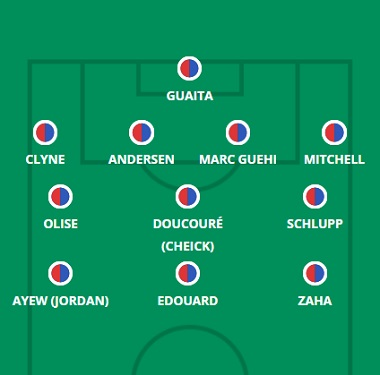
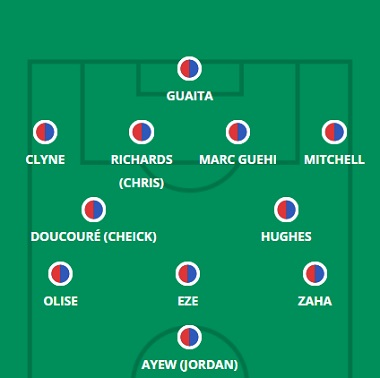
9-20

diff --git a/nforest.html b/nforest.html
@@ -63,15 +63,15 @@
     <hgroup>
         <h1> Provável Escalação</h1>
         <h2 class="direita"> por FabioVascão </h2>
-        <h3 class="direita"> Atualizado em 13/Janeiro/2023 </h3>
+        <h3 class="direita"> Atualizado em 20/Janeiro/2023 </h3>
     </hgroup>
 
     <div class="selecao"><p><b><img src="images/logos/nforest.png" width="100rem" height="100rem"/> N. Forest</b></p></div>
        
     <div class="escalacao">
         <div class="topo">
-            <h2 class="titulo">Ultimas Notícias</h2> <h4><p> Omar Richards (perna), Giulian Biancone (ACL), Moussa Niakhate (coxa), Cheikhou Kouyate (coxa) e Jesse Lingard (coxa) definitivamente permanecem de fora, mas o Nottingham Forest estava em ação na copa apenas 12 horas antes de Steve Cooper entregar seu pré- Conferência de imprensa da Gameweek 20, então as atualizações sobre os outros jogadores sinalizados foram bastante vagas, pois a avaliação adequada não ocorreu. Willy Boly (tornozelo) saiu mancando da vitória da copa sobre o Wolverhampton Wanderers depois de inicialmente pular de uma maca para voltar à ação, enquanto Taiwo Awoniyi (fadiga muscular) e Neco Williams (lesão facial) perderam o jogo completamente. Cooper havia dito anteriormente que esperava ter Awoniyi de volta para este jogo, mas há mais preocupação com Boly, que havia se estabelecido entre os quatro defensores antes de sua lesão no meio da semana. Scott McKenna estará de prontidão para substituir o ex-jogador do Wolves, enquanto os três atacantes de quarta-feira de Brennan Johnson, Morgan Gibbs-White e Gustavo Scarpa podem continuar de qualquer maneira, mesmo que Awoniyi se recupere. Os quatro zagueiros e o meio-campo três permaneceram inalterados na liga desde o reinício de dezembro, à medida que a forma de Forest ganha força, então jogadores como Harry Toffolo, Lewis O'Brien, Sam Surridge, Emmanuel Dennis e Jack Colback devem estar aquecendo o banco uma vez novamente.</p></h4><br>
-            <h4><strong>Dúvidas:</strong> Biancone, Kouyaté, Niakhaté, Awoniyi, Boly, Neco Willians, Lingard e Richards (Omar).</h4>
+            <h2 class="titulo">Ultimas Notícias</h2> <h4><p> Dean Henderson (coxa) ficará de fora no próximo mês depois de sofrer uma lesão nos estágios finais da vitória sobre o Leicester City no fim de semana passado, com Wayne Hennessey definido para substituir neste sábado. Willy Boly (tornozelo), Omar Richards (perna), Giulian Biancone (ACL), Moussa Niakhate (coxa), Cheikhou Kouyate (coxa), Jesse Lingard (coxa) e Taiwo Awoniyi (virilha) também devem ficar de fora, com Steve Cooper disse que Forest estava "como estávamos" em termos de notícias da equipe, mas Ryan Yates se recuperou rapidamente de uma lesão facial que contraiu no fim de semana passado. Chegada iminente Chris Wood provavelmente fornecerá o apoio inicial para os três primeiros de Brennan Johnson, Morgan Gibbs-White e Gustavo Scarpa, devido à falta de tempo de treinamento com seus novos companheiros de equipe, enquanto as únicas mudanças na forma defesa e meio-campo desde o reinício pós-Copa do Mundo foram aplicados devido a lesão. Jogadores como Harry Toffolo, Lewis O'Brien, Sam Surridge, Emmanuel Dennis e Jack Colback parecem prestes a aquecer o banco mais uma vez, então, com esse contingente potencialmente acompanhado pelo recém-chegado Danilo Pereira; Cooper disse que o brasileiro enfrentou um "período de adaptação" após sua mudança em janeiro.</p></h4><br>
+            <h4><strong>Dúvidas:</strong> Biancone, Kouyaté, Henderson, Niakhaté, Awoniyi, Boly, Lingard e Richards (Omar).</h4>
         </div>
         <aside>
             <figure>

diff --git a/palace.html b/palace.html
@@ -63,15 +63,15 @@
     <hgroup>
         <h1> Provável Escalação</h1>
         <h2 class="direita"> por FabioVascão </h2>
-        <h3 class="direita"> Atualizado em 13/Janeiro/2023 </h3>
+        <h3 class="direita"> Atualizado em 20/Janeiro/2023 </h3>
     </hgroup>
 
     <div class="selecao"><p><b><img src="images/logos/crystal-palace.png" width="100rem" height="100rem"/> Crystal Palace</b></p></div>
        
     <div class="escalacao">
         <div class="topo">
-            <h2 class="titulo">Ultimas Notícias</h2> <h4><p> Não parece haver novas preocupações com lesões para o Crystal Palace, com Patrick Vieira dizendo que “todo mundo do último jogo treinou a semana toda”. Os Eagles sentirão novamente a falta de James McArthur (virilha) e Nathan Ferguson (condição física), ambos ausentes há muito tempo, mas Tyrick Mitchell está de volta após uma suspensão de três jogos após sua expulsão no Boxing Day e deve retornar ao time titular. XI, potencialmente substituindo Joel Ward na lateral-esquerda. Mais à frente, há muito mais debate a ser feito com Cheick Doucoure frequentemente exposto na sala de máquinas e a queda de forma de Eberechi Eze. Vieira ficou sem Odsonne Edouard ou Jean-Philippe Mateta em suas três primeiras escalações na Premier League desde o reinício, explicando mais tarde que a dupla não estava totalmente apta, mas Edouard voltou ao topo na FA Cup no fim de semana passado e marcou devidamente, para potencialmente aumentar suas chances de começar em Stamford Bridge. O enxerto de Jordan Ayew é normalmente chamado em jogos difíceis fora de casa (é uma viagem para o Chelsea?) E Wilfried Zaha geralmente é o mais acertado, enquanto Michael Olise parecia afiado em um papel de meio-campo de ataque central contra o Southampton na copa. Jefrrey Schlupp, Will Hughes, Eze e Edouard podem estar competindo por duas vagas, então, enquanto Vieira tenta impedir uma sequência de três derrotas em quatro jogos.</p></h4><br>
-            <h4><strong>Dúvidas:</strong> Ferguson (Nathan) e McArthur.</h4>
+            <h2 class="titulo">Ultimas Notícias</h2> <h4><p> Joachim Andersen (panturrilha) está a algumas semanas de um retorno, enquanto James McArthur (virilha) vai intensificar sua reabilitação após o jogo 21. Nathan Ferguson (condicionamento físico) começou a treinar com a equipe, entretanto, embora não tenha t chutou uma bola competitivamente em um ano. O Palace ganhou um ponto digno de crédito em um confronto no meio da semana com o Manchester United, mas apesar do resultado positivo, Vieira disse que haveria outras "algumas mudanças" com a reviravolta domingo-quarta-sábado em mente. Eberechi Eze e Jordan Ayew são candidatos óbvios para um recall, com Jean-Philippe Mateta e Odsonne Edouard potencialmente desistindo - embora Edouard tenha feito um de seus melhores jogos jogando apenas como atacante central, em vez de liderar a linha. Jeffrey Schlupp para Will Hughes e Joel Ward para Nathaniel Clyne são outras mudanças possíveis, enquanto James Tomkins é uma opção no meio-campo se o impressionante Chris Richards não fizer duas partidas em menos de 72 horas.</p></h4><br>
+            <h4><strong>Dúvidas:</strong> Ferguson (Nathan), Andersen e McArthur.</h4>
         </div>
         <aside>
             <figure>

diff --git a/spurs.html b/spurs.html
@@ -63,15 +63,15 @@
     <hgroup>
         <h1> Provável Escalação</h1>
         <h2 class="direita"> por FabioVascão </h2>
-        <h3 class="direita"> Atualizado em 13/Janeiro/2023 </h3>
+        <h3 class="direita"> Atualizado em 20/Janeiro/2023 </h3>
     </hgroup>
 
     <div class="selecao"><p><b><img src="images/logos/tottenham.png" width="100rem" height="100rem"/> Tottenham</b></p></div>
        
     <div class="escalacao">
         <div class="topo">
-            <h2 class="titulo">Ultimas Notícias</h2> <h4><p> Antonio Conte disse na sexta-feira que “acha” que Dejan Kulusevski (músculo) estará “pronto para jogar”, mas acrescentou que o clube não “correrá riscos” com Rodrigo Bentancur (virilha) e Richarlison (coxa), que, no entanto, estão se aproximando um retorno e será avaliado em treinamento. Lucas Moura (tendão) também segue de fora. Por melhor que Bryan Gil tenha sido ultimamente, não seria uma surpresa ver Kulusevski cair de pára-quedas direto para os três primeiros, dada a sua importância anterior para a equipe e considerando que ele está fora de ação há apenas quinze dias. O retorno de Yves Bissouma da suspensão e uma pequena lesão também é oportuno se Bentancur não estiver em risco, já que Conte certamente relutará em iniciar um Oliver Skipp de aparência enferrujada no derby do norte de Londres. Os cinco defensores que começaram no Palace estavam todos descansados na FA Cup no último fim de semana; Matt Doherty e Ivan Perisic já começaram três partidas consecutivas da liga cada um, depois que a rotação foi prejudicada no início da temporada.</p></h4><br>
-            <h4><strong>Dúvidas:</strong> Richarlison, Lucas Moura, Kulusevski e Bentancur.</h4>
+            <h2 class="titulo">Ultimas Notícias</h2> <h4><p> Com exceção do ausente de longa data Lucas Moura (tendão), os Spurs não têm nenhum problema sério com lesões antes da viagem de segunda-feira para o Fulham. Antonio Conte disse na entrevista coletiva de sexta-feira que "fadiga" era a principal preocupação após a derrota por 4 a 2 para o Etihad, embora o dia extra de recuperação deva ser benéfico antes do confronto em Craven Cottage. Um novo Ryan Sessegnon e Richarlison (que estrelou o jogo reverso contra o Fulham) esperam voltar a entrar na equação após exibições ruins de Ivan Perisic e Son Heung-min contra o Manchester City, embora o recentemente livre de lesões Dejan Kulusevski tenha sido verificado por Conte como um dos jogadores cansados do meio da semana e ele poderia abrir caminho para Richarlison. O recém-recuperado Rodrigo Bentancur está em um barco semelhante, embora Conte não tenha exatamente alternativas de meio-campo convincentes na forma de Yves Bissouma e Oliver Skipp. Cristian Romero é o único membro da defesa do Spurs que pode argumentar que ele merece começar com o mérito atual (incluímos Hugo Lloris nisso), mas o tão difamado Emerson Royal na verdade fez uma exibição decente contra Jack Grealish, então poderia novamente obter o aceno à frente de Matt Doherty.</p></h4><br>
+            <h4><strong>Dúvidas:</strong> Lucas Moura.</h4>
         </div>
         <aside>
             <figure>

diff --git a/everton.html b/everton.html
@@ -63,15 +63,15 @@
     <hgroup>
         <h1> Provável Escalação</h1>
         <h2 class="direita"> por FabioVascão </h2>
-        <h3 class="direita"> Atualizado em 13/Janeiro/2023 </h3>
+        <h3 class="direita"> Atualizado em 20/Janeiro/2023 </h3>
     </hgroup>
 
     <div class="selecao"><p><b><img src="images/logos/everton.png" width="100rem" height="100rem"/> Everton</b></p></div>
        
     <div class="escalacao">
         <div class="topo">
-            <h2 class="titulo">Ultimas Notícias</h2> <h4><p> James Garner (costas), Andros Townsend (joelho), Michael Keane (joelho) e Nathan Patterson (joelho) estão todos na lista de contusões antes do jogo contra o Southampton, mas Frank Lampard informou na sexta-feira que Dominic Calvert-Lewin superou o período de Natal ileso. Em outra boa notícia, Alex Iwobi (tornozelo) - afastado por três semanas na última sexta-feira - pode estar de volta já neste fim de semana, com avaliação para vir em treinamento devido a uma lesão que foi muito menos grave do que se temia. Desempenhos dignos de crédito em um sistema lateral contra os dois clubes de Manchester nas últimas semanas certamente virão à mente de Lampard, mas com o Saints na parte inferior da tabela visitando Goodison Park, haverá a tentação de ir com um conjunto mais ofensivo -up para este ponteiro de seis. Pode ser uma escolha direta entre Ben Godfrey como terceiro zagueiro ou Dwight McNeil/Anthony Gordon como ala extra, dependendo se é um 5-3-2 ou 4-3-3, com Demarai Gray operando como atacante de apoio para Calvert-Lewin se for o primeiro. Abdoulaye Doucoure e Tom Davies são opções de meio-campo se Iwobi não fizer a recuperação de Lazarus que Lampard espera que ele faça.</p></h4><br>
-            <h4><strong>Dúvidas:</strong> Garner, Patterson, Iwobi, Keane e Townsend. </h4>
+            <h2 class="titulo">Ultimas Notícias</h2> <h4><p> Em uma coletiva de imprensa dominada por conversas sobre a situação atual do Everton e seu próprio futuro, o técnico Frank Lampard revelou brevemente que os Toffees não têm novas preocupações físicas. Nathan Patterson (joelho) ainda está na lista de lesionados, enquanto James Garner (costas) e Andros Townsend (joelho) estão apenas de volta aos treinos individuais e não serão considerados. Michael Keane (joelho) também esteve de fora recentemente e acredita-se que continuará afastado. Lampard tem que decidir se vai ficar com um sistema lateral ou ir para quebrar em um 4-3-3 mais ofensivo para esta bola de seis pontos, e pode ser uma escolha direta entre Ben Godfrey como terceiro zagueiro ou Dwight. McNeil/Anthony Gordon como ala extra dependendo da decisão. Yerry Mina também pode entrar em jogo como zagueiro, com sua altura extra potencialmente útil para combater a força aérea do West Ham em lances de bola parada.</p></h4><br>
+            <h4><strong>Dúvidas:</strong> Garner, Patterson, Keane e Townsend. </h4>
         </div>
         <aside>
             <figure>
